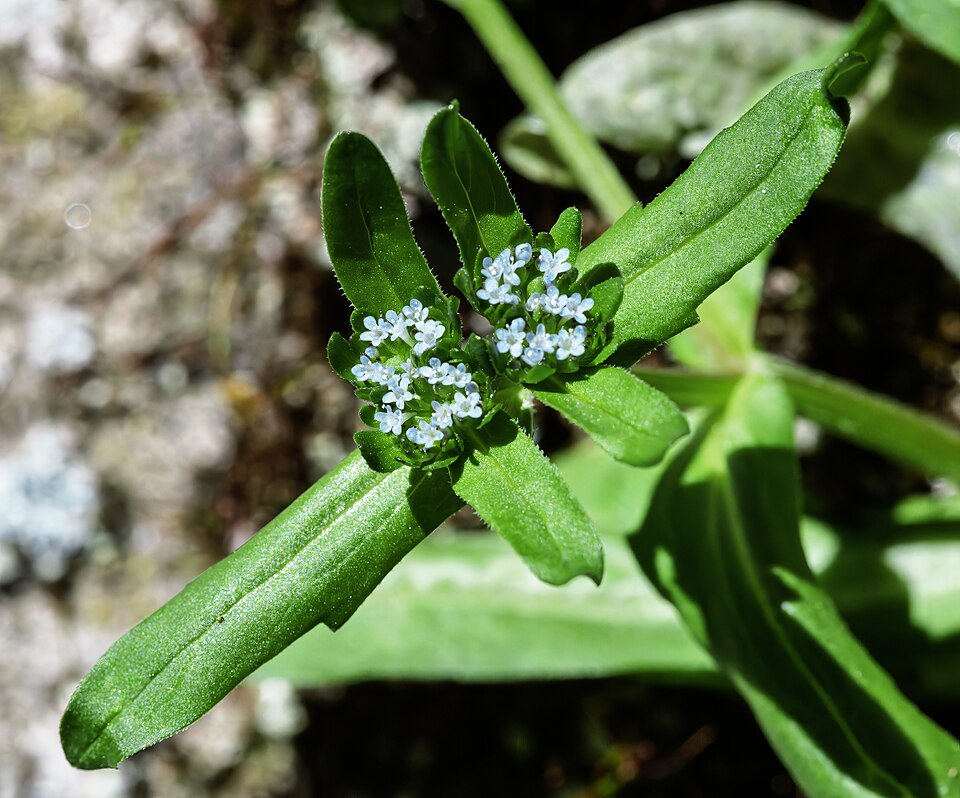
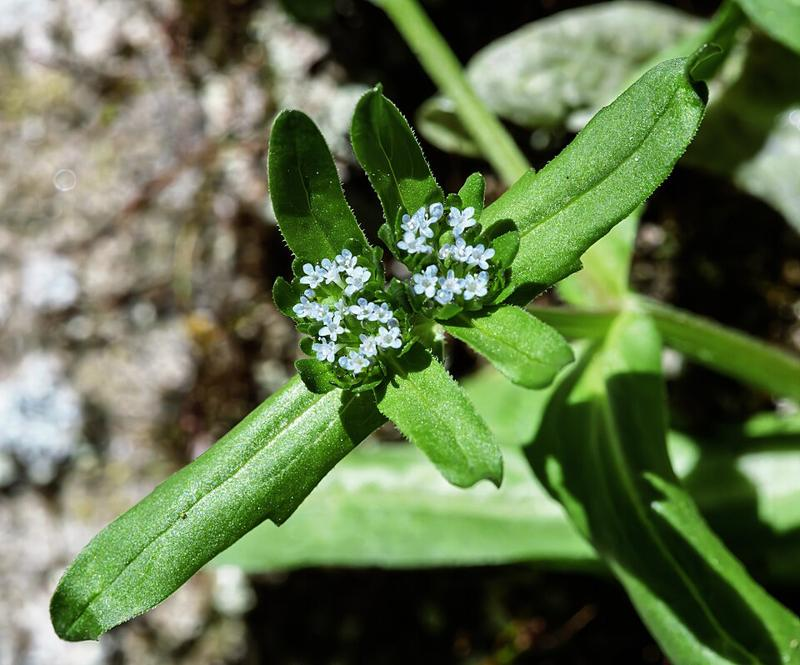
Photos d'exemple : les 9 dernières en bonne qualité, recompressées en 800 px
Claude-Session: https://claude.ai/code/session_01Sig7FybjmujUkGyvT5aZoa

diff --git a/CLAUDE.md b/CLAUDE.md
@@ -121,7 +121,7 @@ Livré, à valider sur son téléphone :
   « Photo d'exemple » + « Ajoute ta photo ». Écran `app/credits.tsx` (Réglages → Crédits photos).
   Téléchargement par `scripts/photos/telecharger-photos.mjs`, **à lancer dans le Codespace** (le
   réseau de la session Claude bloque Wikimedia) : candidates, `--encore`, puis `--final` (choix.json).
-  9 photos sont encore « provisoires » (400 px) : `--final` les remplace en 800 px.
+  Après un `--final`, recompresser en 800 px (qualité ~74) : Wikimedia renvoie des images plus lourdes.
 - Emojis : l'emoji exact de la plante, sinon un emoji végétal générique (plus d'objets sans rapport).
 
 À faire, dans l'ordre :
